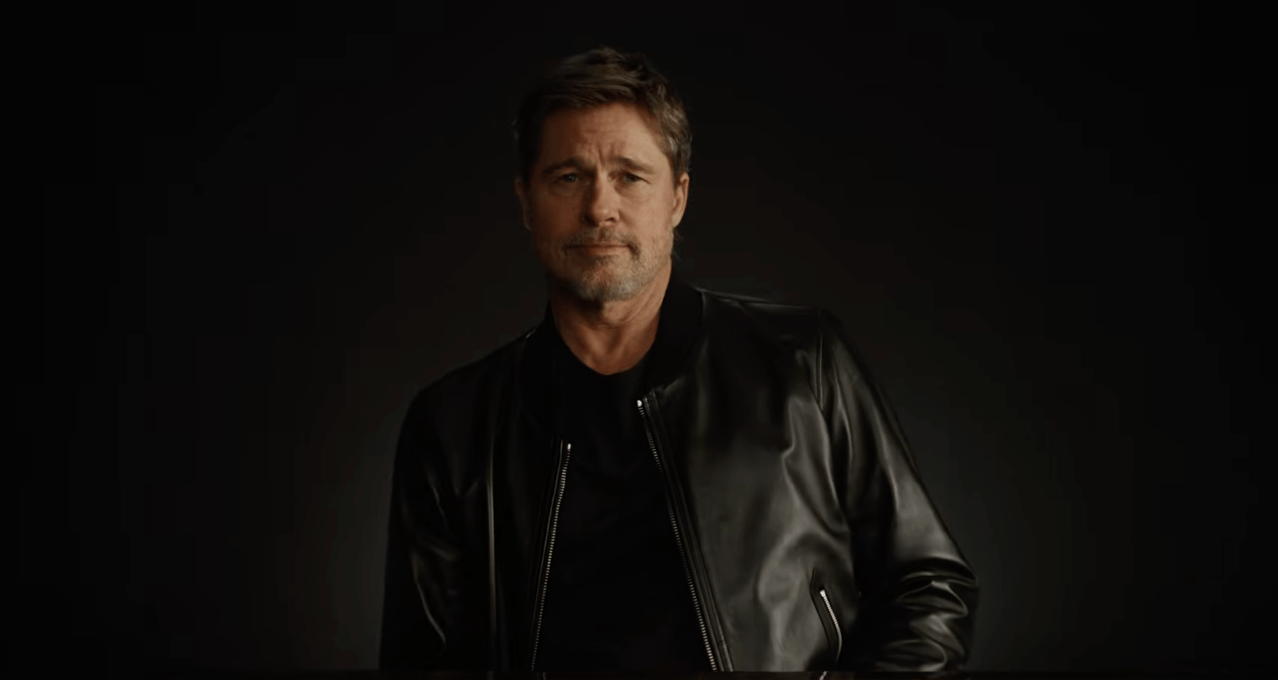
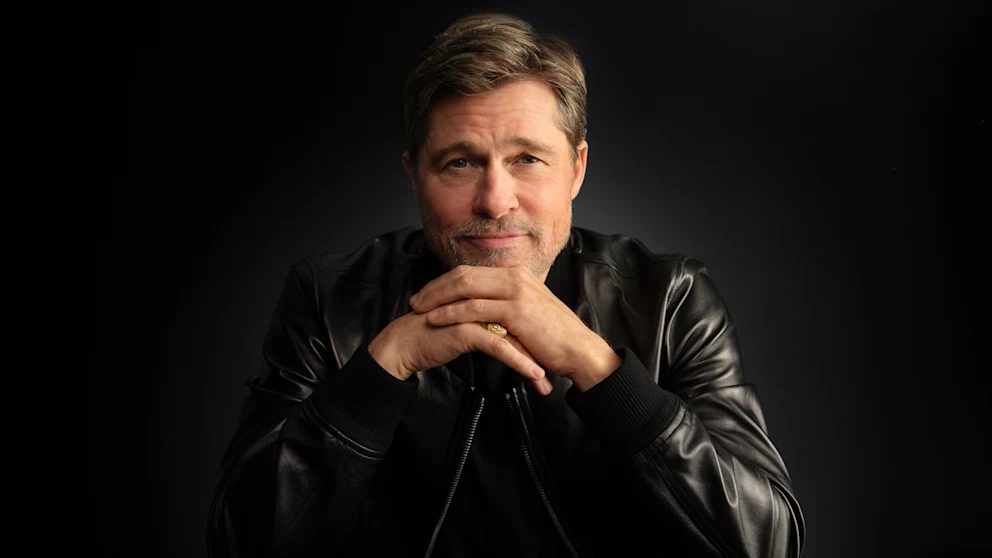
bild und text

diff --git a/Projekte/TraderepublicXshisha/src/app/data/audienceContent.ts b/Projekte/TraderepublicXshisha/src/app/data/audienceContent.ts
@@ -480,7 +480,7 @@ const premium: AudienceContent = {
   },
 
   influencer: {
-    quote: 'Precision matters. In everything I do.',
+    quote: 'Quality matters. In everything I do.',
     name: 'Brad Pitt',
     role: 'Actor · Entrepreneur',
     imageSrc: 'Brad_Pitt_Trade_Republic.png',